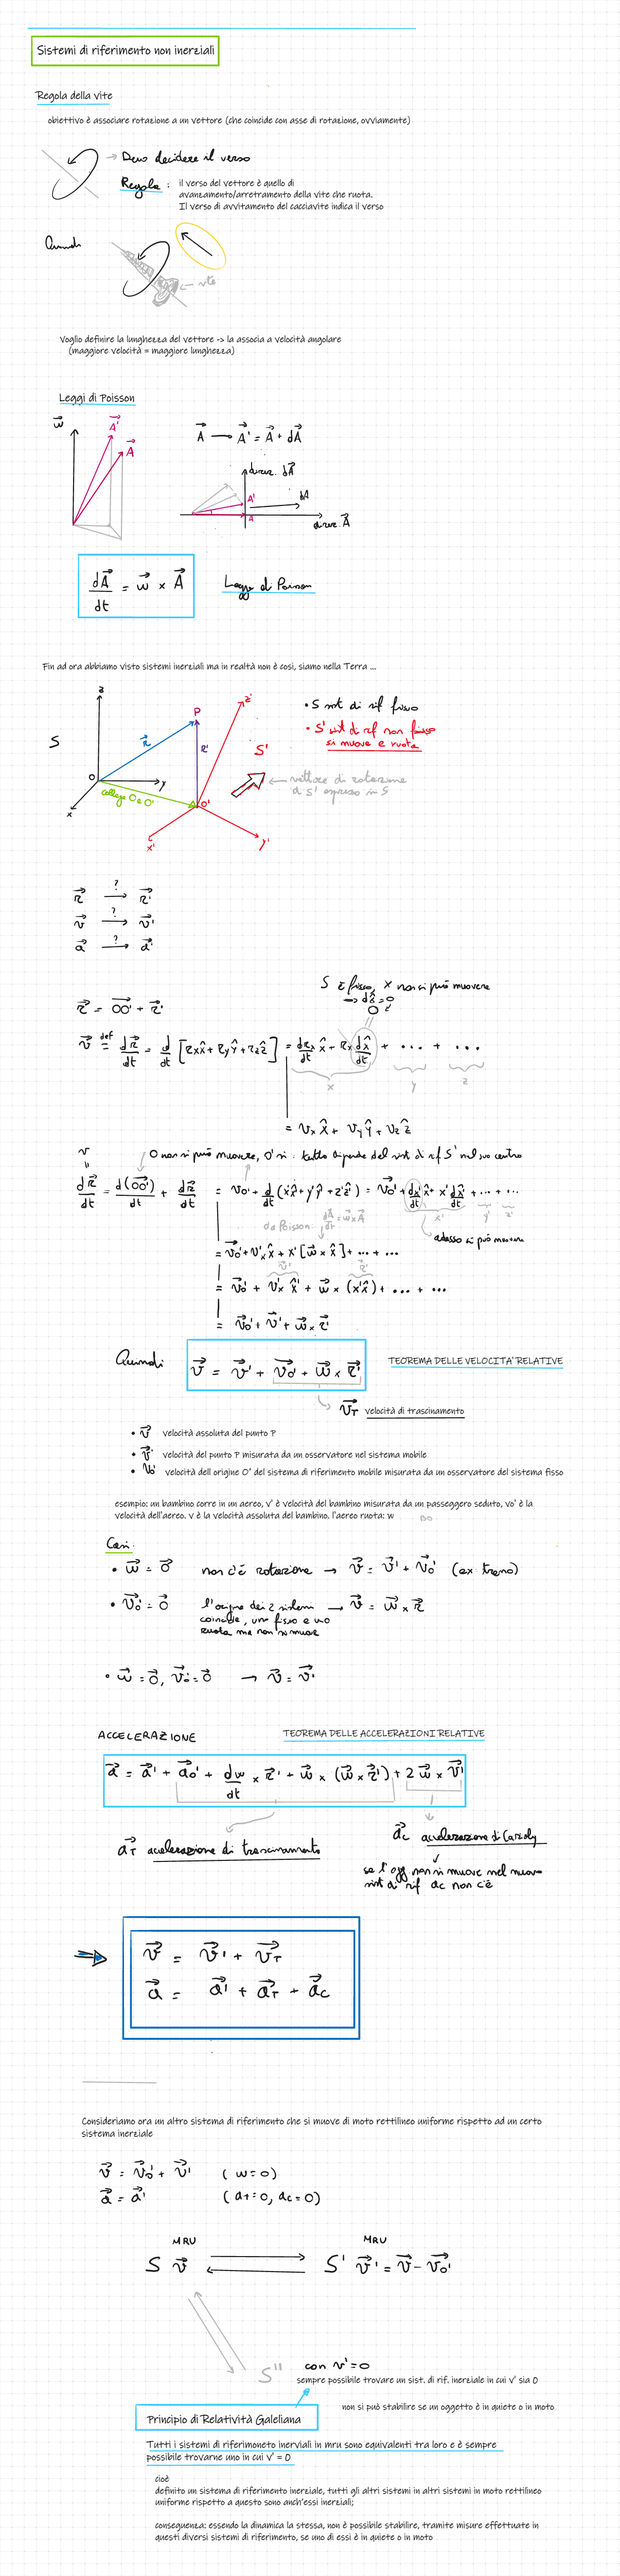
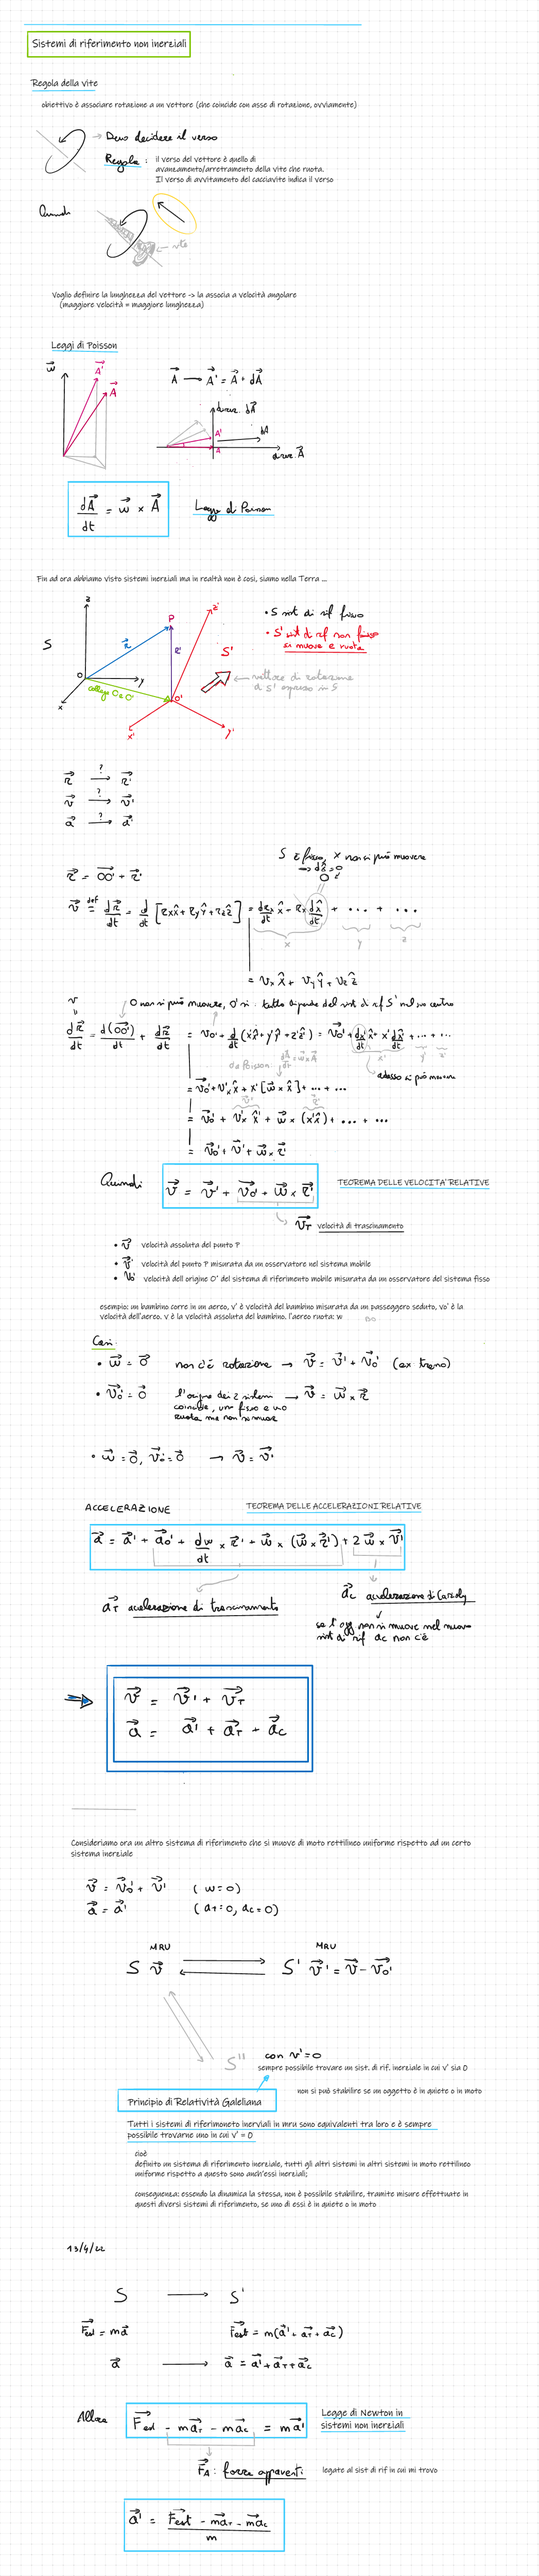
update

diff --git a/README.md b/README.md
@@ -1,20 +1,21 @@
 # Fisica
 ## Table
 
-| data     | argomenti                                                                                                             | lezione                                                                                                                                                                                            |
-| -------- | --------------------------------------------------------------------------------------------------------------------- | -------------------------------------------------------------------------------------------------------------------------------------------------------------------------------------------------- |
-| 01/03/22 | Cinematica, Moto rettilineo uniforme, Velocità e Accelerazione                                                        | [Lez 1](1%20Moto%20rettilineo%20uniforme.png)                                                                                                                                                      |
-| 03/03/22 | Moto uniformemente accelerato, Moto armonico, Moti piani, vettori                                                     | [Lez 2](2%20Moto%20uniformemente%20accelerato,%20Moto%20armonico%20e%20Moti%20piani.png)                                                                                                           |
-|          | Moto parabolico, Moto circolare uniforme,                                                                             | [Lez 3](3%20Moto%20parabolico,%20Moto%20circolare%20uniforme.png)                                                                                                                                  |
-|          | Moto circolare uniforme                                                                                               | [Lez 4](4%20Moto%20circolare%20uniforme.png)                                                                                                                                                       |
-| 15/03/22 | 1° e 2° Legge della Dinamica, Quantità di moto, Forze impulsive, Risultante                                           | [Lez 5](5%20Dinamica.png)                                                                                                                                                                          |
-| 17/03/22 | 3° Legge della Dinamica, Forza Peso, Forze Elastica, Forza Gravitazionale, Forza Elettromagnetica, Reazioni Vincolari | [Lez 6](6%20Dinamica,%20Forza%20peso,%20elastica,%20gravitazionale,%20elettromagnetica,%20reazioni%20vincolari.png)                                                                                |
-| 22/03/22 | Attrito statico, Attrito Dinamico, Piano Inclinato                                                                    | [Lez 7 a](7%20a%20Attrito%20Radente.png) - [Lez 7 b](7%20b%20Piano%20Inclinato.png)                                                                                                                |
-| 23/03/22 | Pendolo semplice                                                                                                      | [Lez 8](8%20Pendolo%20Semplice.png)                                                                                                                                                                |
-| 29/03/22 | Lavoro                                                                                                                | [Lez 9](9%20Lavoro.png)                                                                                                                                                                            |
-| 30/03/22 | Energia Cinetica, Potenza, Forze conservative, Energia Potenziale, Forze non conservative                             | [Lez 10](10%20Energia%20Cinetica,%20Potenza,%20Forze%20conservative,%20Energia%20Potenziale.png)                                                                                                   |
-| 12/04/22 | Forza di Gravitazione Universale, Leggi di Keplero, Sistemi di riferimento non inerziali, Relatività Galileiana       | [Lez 11 a](11%20a%20Forza%20di%20Gravitazione%20Universale%20e%20Leggi%20di%20Keplero.png) - [Lez 11 b](11%20b%20Sistemi%20di%20riferimento%20non%20inerziali,%20Relativit%C3%A0%20Galileiana.png) | 
-	
+| data     | argomenti                                                                                                             | lezione                                                                                                                                                                                                                                                                                  |
+| -------- | --------------------------------------------------------------------------------------------------------------------- | ---------------------------------------------------------------------------------------------------------------------------------------------------------------------------------------------------------------------------------------------------------------------------------------- |
+| 01/03/22 | Cinematica, Moto rettilineo uniforme, Velocità e Accelerazione                                                        | [Lez 1](1%20Moto%20rettilineo%20uniforme.png)                                                                                                                                                                                                                                            |
+| 03/03/22 | Moto uniformemente accelerato, Moto armonico, Moti piani, vettori                                                     | [Lez 2](2%20Moto%20uniformemente%20accelerato,%20Moto%20armonico%20e%20Moti%20piani.png)                                                                                                                                                                                                 |
+|          | Moto parabolico, Moto circolare uniforme,                                                                             | [Lez 3](3%20Moto%20parabolico,%20Moto%20circolare%20uniforme.png)                                                                                                                                                                                                                        |
+|          | Moto circolare uniforme                                                                                               | [Lez 4](4%20Moto%20circolare%20uniforme.png)                                                                                                                                                                                                                                             |
+| 15/03/22 | 1° e 2° Legge della Dinamica, Quantità di moto, Forze impulsive, Risultante                                           | [Lez 5](5%20Dinamica.png)                                                                                                                                                                                                                                                                |
+| 17/03/22 | 3° Legge della Dinamica, Forza Peso, Forze Elastica, Forza Gravitazionale, Forza Elettromagnetica, Reazioni Vincolari | [Lez 6](6%20Dinamica,%20Forza%20peso,%20elastica,%20gravitazionale,%20elettromagnetica,%20reazioni%20vincolari.png)                                                                                                                                                                      |
+| 22/03/22 | Attrito statico, Attrito Dinamico, Piano Inclinato                                                                    | [Lez 7 a](7%20a%20Attrito%20Radente.png) - [Lez 7 b](7%20b%20Piano%20Inclinato.png)                                                                                                                                                                                                      |
+| 23/03/22 | Pendolo semplice                                                                                                      | [Lez 8](8%20Pendolo%20Semplice.png)                                                                                                                                                                                                                                                      |
+| 29/03/22 | Lavoro                                                                                                                | [Lez 9](9%20Lavoro.png)                                                                                                                                                                                                                                                                  |
+| 30/03/22 | Energia Cinetica, Potenza, Forze conservative, Energia Potenziale, Forze non conservative                             | [Lez 10](10%20Energia%20Cinetica,%20Potenza,%20Forze%20conservative,%20Energia%20Potenziale.png)                                                                                                                                                                                         |
+| 12/04/22 | Forza di Gravitazione Universale, Leggi di Keplero, Sistemi di riferimento non inerziali, Relatività Galileiana       | [Lez 11 a](11%20a%20Forza%20di%20Gravitazione%20Universale%20e%20Leggi%20di%20Keplero.png) - [Lez 11 b](11%20b%20Sistemi%20di%20riferimento%20non%20inerziali,%20Relativit%C3%A0%20Galileiana.png) - [Lez 11 c](11%20c%20Esempi%20di%20sistemi%20di%20riferimento%20non%20inerziali.png) |
+| 13/04/22 | Sistema di punti materiali, Sistema di masse, Sistemi Isolati, Principio della conservazione della quantità di moto   | [Lez 12](12%20Sistemi%20di%20punti%20materiali,%20Centro%20di%20massa%20di%20un%20sistema,%20Sistemi%20isolati.png)                                                                                                                                                                                                                                                                                         |
+
 
 --- 
 
@@ -64,3 +65,12 @@
 		  - Teorema delle velocità relative
 		  - Teorema delle accelerazioni relative
 	  - Principio di Relatività Gaileliana
+	  - Legge di Newton nei sistemi non inerziali
+	  - Esempi
+		  - Vagone
+		  - Carrello
+- Dinamica dei punti materiali
+	- Sistema di punti materiali
+	- Sistema di masse
+	- Sistemi Isolati
+		- Principio della conservazione della quantità di moto
